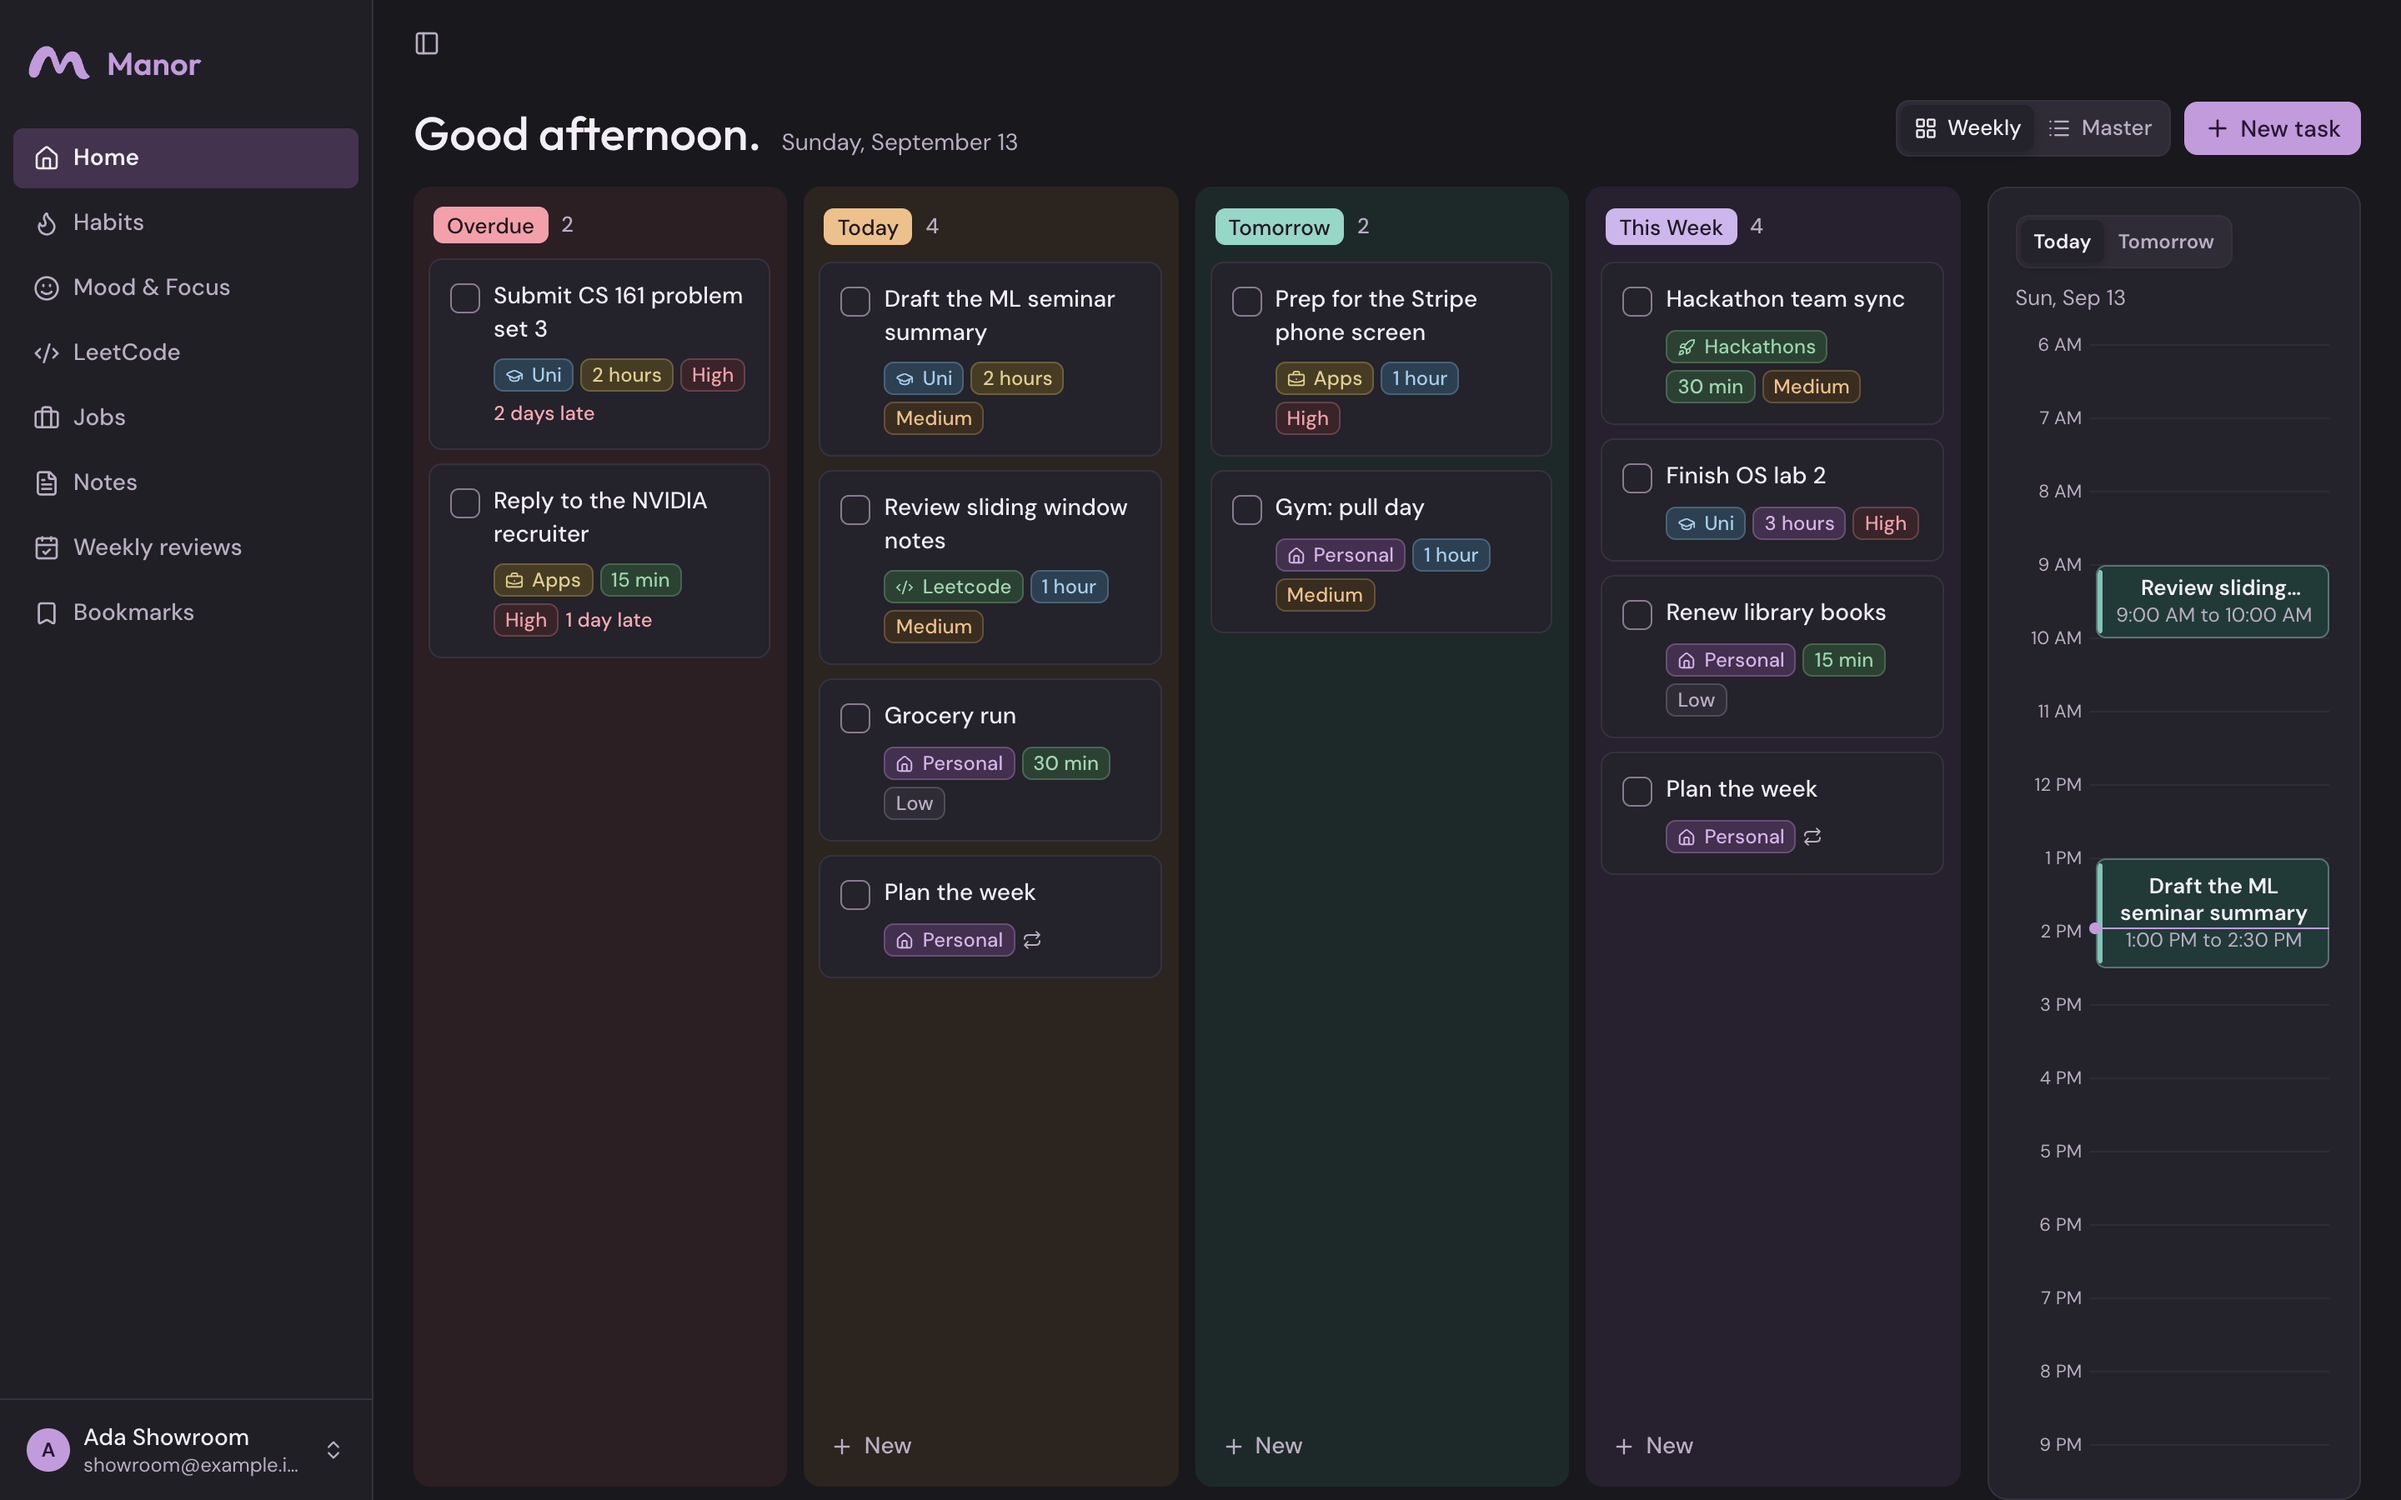
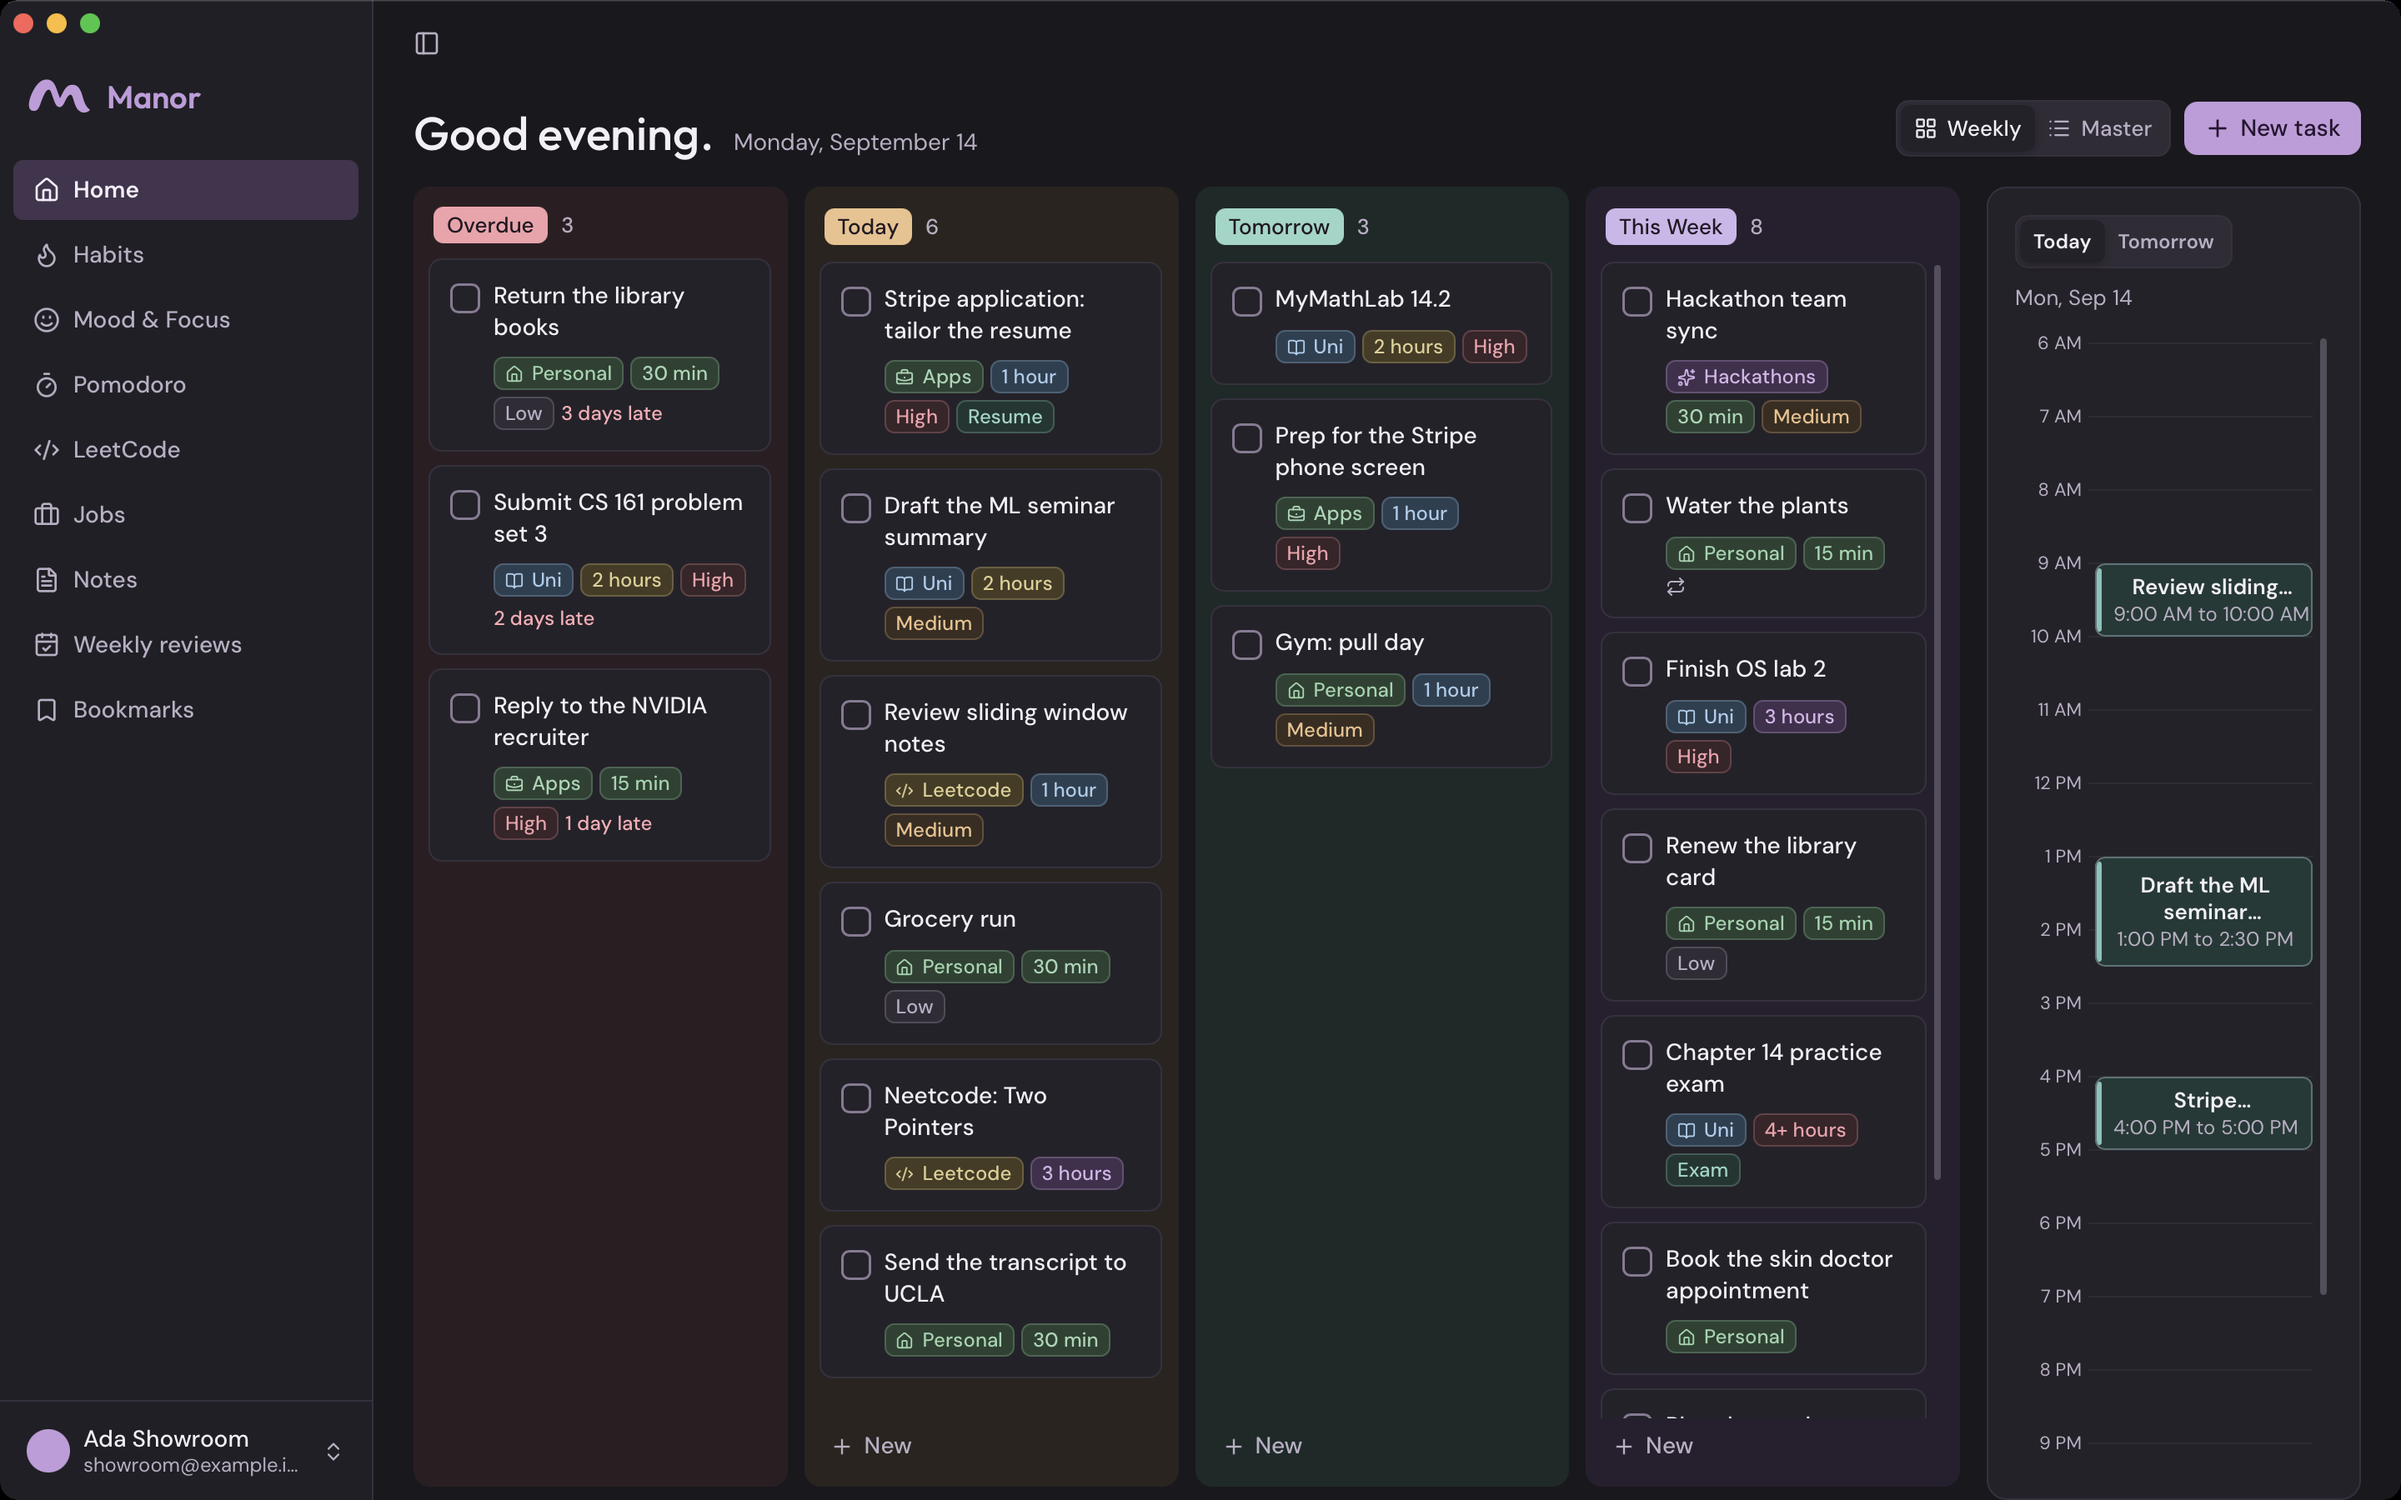
Reshoot README screenshots on a populated account with the ring grid, mood and focus history, and Pomodoro

diff --git a/README.md b/README.md
@@ -50,7 +50,15 @@ The sidebar docks or collapses to a hover overlay; it is docked above and collap
 
 <table>
   <tr>
-    <td width="50%"><img src="docs/readme/habits.png" alt="Habits in light mode: per-habit streaks, misses, and the freeze pool"></td>
+    <td width="50%"><img src="docs/readme/habits.png" alt="Habits in light mode: today's check-offs, week strips, streaks, and the freeze pool"></td>
+    <td width="50%"><img src="docs/readme/habits-history.png" alt="Habits history in dark mode: the six-month completion trend above a grid of completion rings, one per habit"></td>
+  </tr>
+  <tr>
+    <td width="50%"><img src="docs/readme/moodfocus.png" alt="Mood and focus history in light mode: the six-month trend, a month calendar that names each day's mood and focus, and per-level distributions"></td>
+    <td width="50%"><img src="docs/readme/pomodoro-history.png" alt="Pomodoro history in dark mode: month statistics, focused minutes per day, and the session log"></td>
+  </tr>
+  <tr>
+    <td width="50%"><img src="docs/readme/pomodoro.png" alt="Pomodoro in light mode: a running focus session centered on the page with history behind a toggle"></td>
     <td width="50%"><img src="docs/readme/notes.png" alt="Notes in dark mode: headings, code, and lists in the block editor"></td>
   </tr>
   <tr>
